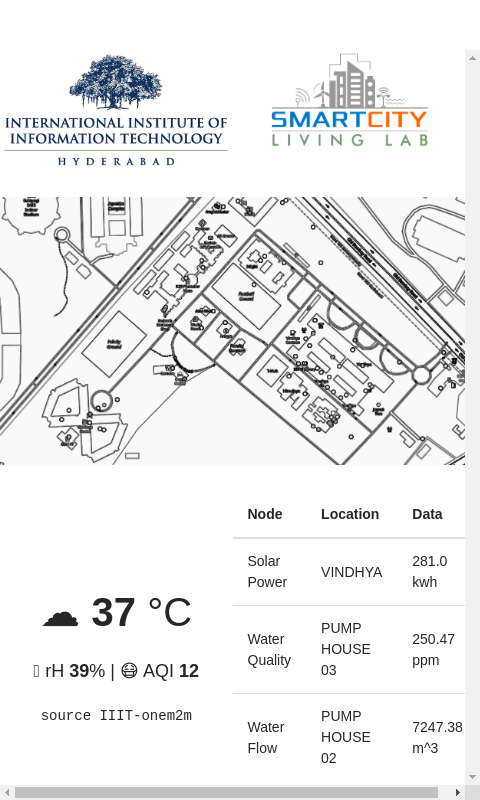
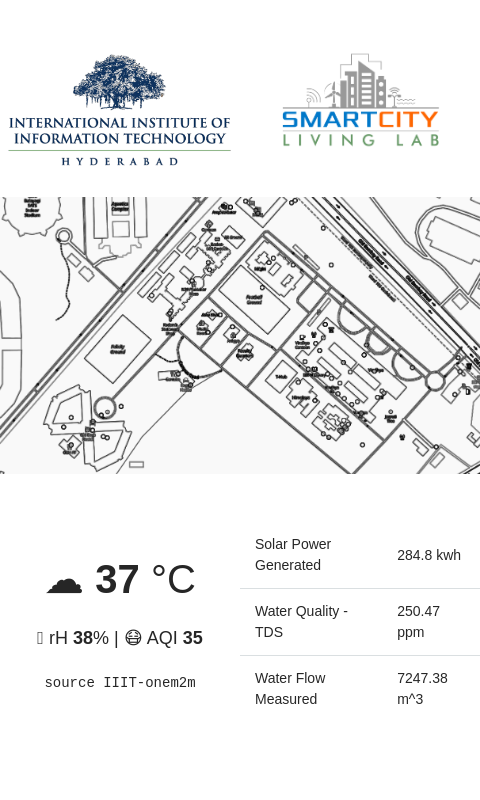
remove node thingie

diff --git a/epaper_lamp/templates/index.html b/epaper_lamp/templates/index.html
@@ -42,8 +42,6 @@
 			  <div class="col-6">
 				  <br>
 				  <br>
-				  <br>
-				  <br>
 					<center>
 						<h1 id="-27-c">☁ <b>{{ AIRQ.temp }}</b> °C</h1>
 						<h5 id="51-aqi-56-uv">💧 rH <b>{{ AIRQ.hum }}</b>% | 😷 AQI <b>{{ AIRQ.AQI }}</b></h5>
@@ -58,18 +56,11 @@
 			  <div class="col-6">
 				  	<center>
 						<table class="table">
-							<thead>
-							  <tr>
-								<th>Node</th>
-								<th>Location</th>
-								<th>Data</th>
-							  </tr>
-							</thead>
+							<br>
 							<tbody>
 								{% for node in NODES %}
 								<tr>
 									<td> {{ node.NAME }}</td>
-									<td> {{ node.LOC }}</td>
 									<td> {{ node.DATA }} {{ node.UNIT }}</td>
 
 								  </tr>

diff --git a/epaper_lamp/server.py b/epaper_lamp/server.py
@@ -76,6 +76,7 @@ def loadserver():
             IMAGES={
                 "iiith_logo":"https://upload.wikimedia.org/wikipedia/en/e/e1/International_Institute_of_Information_Technology%2C_Hyderabad_logo.png",
                 "scrc_logo":"https://i.imgur.com/iReJ5Tp.png",
+                "wisun_logo":"https://www.st.com/content/dam/category-pages/wireless-connectivity/logos/wisun-logo.png",
                 "main_map":"https://i.imgur.com/Q2fvlZd.png"
             }
     )
